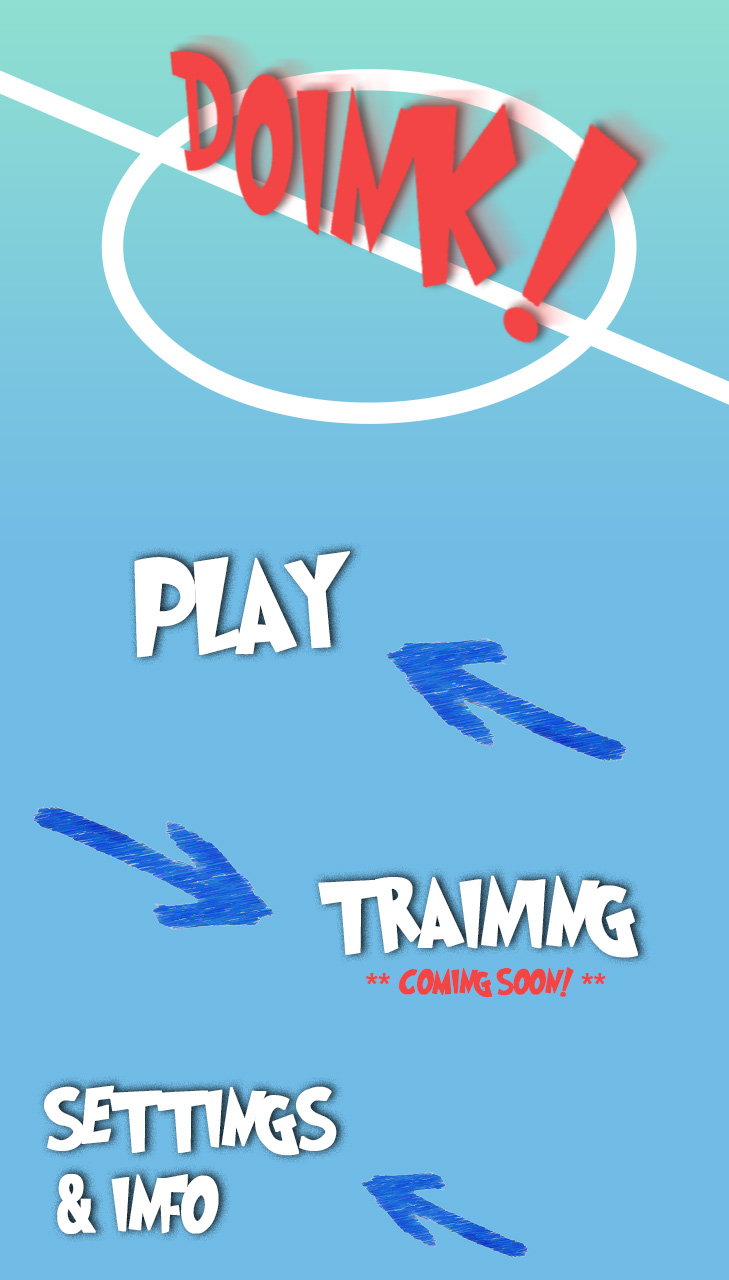
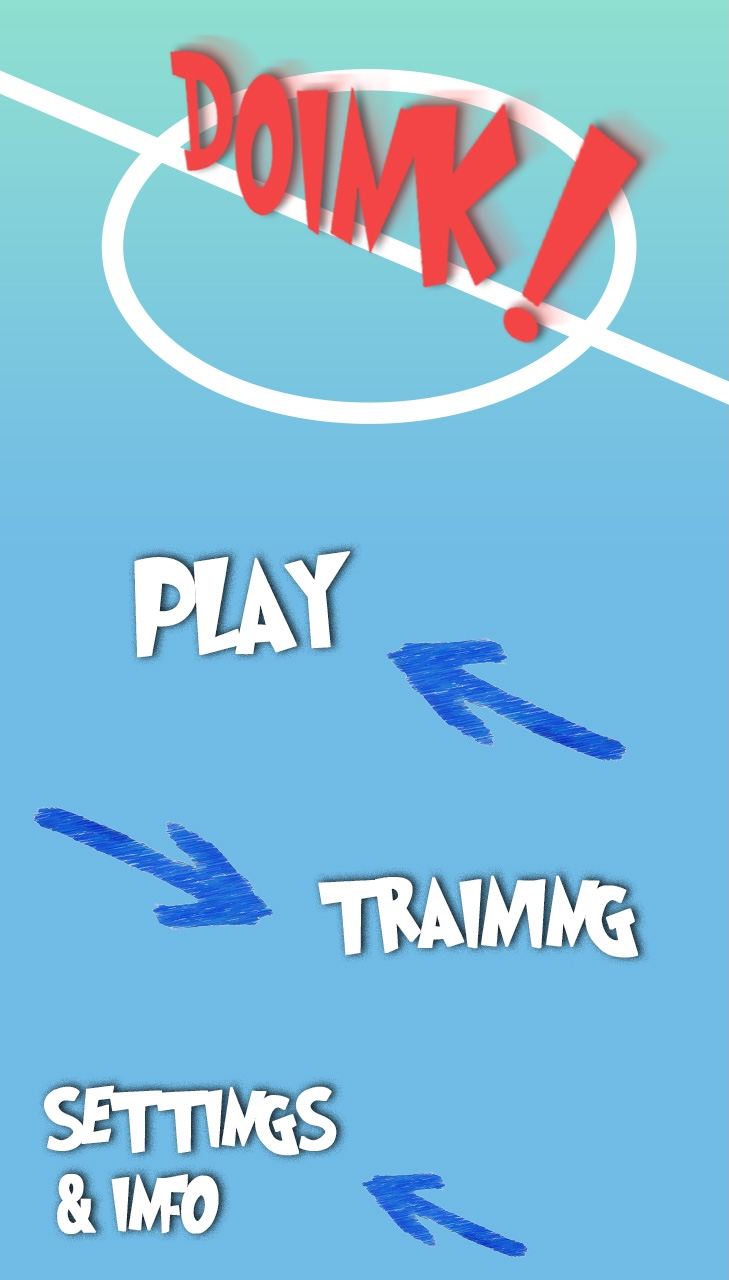
Enable training mode and fix the crash that kept it from working
The 2021 build shipped training behind a commented-out menu button and a
"coming soon" label on the menu artwork. The mode itself was written but,
being unreachable, had never run.

- Re-enabled the training button in menuView, declared at module scope so
  scene:destroy can see it, and updated the menu background.
- Targets called removeSelf() from inside their collision listener, which
  Box2D does not allow while it is still resolving the contact. Removal is
  now deferred by one frame. This would have failed on the first target
  hit, every time.
- targetCounter was never reset after a wave, so it stayed at three.
- The cheer now respects the SFX switch, like every other effect.

How the mode actually works, since it is not obvious: the ball is not
involved. In gameMode 2 it is created with no physics body and hidden, and
player 2 is hidden and stationary. The targets carry the ball's collision
filter, whose mask includes the players, so the player is what gets shot at
them. Three targets spawn and clearing them returns to the menu; the stage
counter is scaffolded but only one wave exists.

Also added CLAUDE.md with the project's working notes, and excluded it from
the app bundle alongside the other repository files.

Changed region(s): [[0.513, 0.75, 0.7846, 0.7812], [0.2414, 0.6875, 0.2716, 0.7188], [0.1811, 0.6562, 0.2112, 0.6875]]

diff --git a/CLAUDE.md b/CLAUDE.md
@@ -1,0 +1,93 @@
+# Doink! — working notes
+
+A Corona SDK / Solar2D game in Lua. Two players share one phone; first to five
+goals wins. Originally 2017, with a large round of work in 2021 that was merged
+into this repository in v6.0.0.
+
+## Running and checking
+
+There is no test suite, and the simulator cannot be driven headlessly. Anything
+automated has to be static:
+
+- **Syntax**: `luac -p <file>`. The binary is not on PATH — it ships with the
+  simulator at `/Applications/Corona-3731/Native/Corona/mac/bin/luac` (Lua 5.1.5).
+- **Scoping**: `luac -l -l -p <file>`, then grep for `GETGLOBAL` / `SETGLOBAL`.
+  **Two `-l` flags are required** — a single `-l` only dumps the top-level
+  function and silently skips nested ones, which is exactly where this codebase's
+  accidental-global bugs live.
+- **Asset and scene paths**: they are plain strings, so a wrong one fails at
+  runtime with no warning. Any sweep over them must cover **both quote styles** —
+  this file mixes `"..."` and `'...'`, and a double-quote-only pass has broken the
+  build here before.
+
+Real verification means opening the project in the Solar2D simulator and playing
+it. Static checks confirm that paths resolve; they say nothing about behaviour.
+
+## Layout
+
+`main.lua`, `config.lua`, `build.settings` and the `Icon*.png` set must stay at
+the repository root — the iOS bundle references the icons by bare filename.
+Everything else lives under `scenes/`, `lib/`, `assets/` and `docs/`.
+
+Scenes are loaded by module path: `composer.gotoScene("scenes.menuView")`. Asset
+paths in code resolve from the project root, not relative to the calling file,
+so moving a Lua file does not affect them.
+
+## Things that will bite you
+
+- **`display.newImageRect` returns `nil` for a missing file** rather than
+  raising. The failure surfaces one line later as "attempt to index a nil value".
+- **`removeSelf()` empties an object but leaves your variable pointing at it.**
+  The reference stays truthy while its methods are gone, so a second removal
+  fails. Always clear the slot afterwards.
+- **`isAwake = false` does not stop a body.** Box2D keeps the velocity and the
+  object resumes on the next contact. Use `setLinearVelocity(0, 0)` first — see
+  `stopBall()` in `gameView.lua`.
+- **Never destroy a physics body inside a collision listener.** Box2D is still
+  resolving the collision. Defer with `timer.performWithDelay(1, ...)`, as the
+  training targets do.
+- **`"touch"` fires for `began`, `moved` and `ended`.** Without a phase check a
+  single tap runs the handler two or three times. Every in-game button filters on
+  a phase; anything new must too.
+- **`scene:destroy` runs in module scope.** Widgets declared `local` inside
+  `scene:create` are invisible there and resolve to `nil` globals. Declare them at
+  the top of the file. Composer only calls `destroy` under memory pressure, so
+  this class of bug hides well.
+- **`composer.removeScene` takes the full module path** (`"scenes.gameView"`).
+  With the wrong name it fails silently, the scene stays cached, and `create`
+  never re-runs on re-entry — while `physics.stop()` has already destroyed every
+  body.
+
+## Audio
+
+Everything is MP3, not OGG: Corona only supports OGG on Android and this project
+also builds for iOS. Music uses `audio.loadStream` (the track is over four
+minutes; `loadSound` would hold it decoded in memory). Effects use `loadSound`
+and are gated on `global.sfxFlag`.
+
+Do not commit uncompressed audio. The 2018 Corona build server transcoded WAVs
+into the package automatically; current Solar2D ships them raw, which once put a
+44 MB file inside a 67 MB APK.
+
+## Builds
+
+Open the project in the Solar2D simulator and use **File → Build**. Android needs
+a JDK — the system `/usr/bin/javac` is only a stub.
+
+- Keep the package name `com.qwerteam.Doink`, or Android installs a second app
+  instead of updating.
+- `versionCode` must increase; `versionName` follows the release tag.
+- Solar2D emits an `.aab` next to the `.apk`. It is only for Play Store
+  submission and is not directly installable — releases here ship the APK.
+- `build.settings` has an `excludeFiles.all` entry keeping the design PDF, debug
+  notes, README and licence out of the package. Leave it in place.
+- Release flow: `gh release create vX.Y.Z <apk> --latest`, with the SHA-256 in the
+  notes so a sideloaded download can be verified.
+
+## Conventions
+
+Comments in the source are Italian, matching the original authors. Commit
+messages and the README are English. Explain *why* in comments rather than what —
+several fixes here look arbitrary without the reason.
+
+Verified claims only: if something has not been run in the simulator, say so.

diff --git a/README.md b/README.md
@@ -32,7 +32,7 @@ Each player has two power-up slots shown at mid-field on their own side: the one
 Both modes run inside [gameView.lua](scenes/gameView.lua), switched by `global.gameMode`:
 
 - **Match** (`gameMode = 1`) — the two-player game described above, with a pause overlay and an end-of-match popup.
-- **Training** (`gameMode = 2`) — solo practice: targets spawn on the pitch in waves of three, with a cheer when you hit one. **Implemented but currently unreachable** — the menu button that sets `gameMode = 2` is commented out in [menuView.lua](scenes/menuView.lua), so there is no way into it from the UI.
+- **Training** (`gameMode = 2`) — solo practice. Note that the ball is not involved: in training it is created with no physics body and hidden, and player 2 is hidden and stationary. The targets carry the ball's collision filter, whose mask includes the players, so you shoot *yourself* at them. Three targets spawn, each answering with a cheer; clearing all three returns to the menu. The staging is scaffolded (`trainingStage`) but only one wave is implemented.
 - **Settings** ([creditsView.lua](scenes/creditsView.lua)) — music and SFX toggles. The difficulty selector is commented out and `global.difficulty` is not read anywhere, so difficulty currently has no effect. Settings apply immediately but are not persisted.
 - **Customization** — selectable ball and pitch skins ([ballView.lua](scenes/ballView.lua), [fieldView.lua](scenes/fieldView.lua)), with assets in [balls/](assets/balls/) and [fields/](assets/fields/). The pitch choice also drives the UI theme: power-up icons and the menu, restart and back buttons come in neon, black and white variants selected from `global.fieldType`.
 
@@ -117,5 +117,6 @@ font and the GGData save helper — were unused and have been removed.
 ## Status
 
 Started in 2017, with a substantial round of work in 2021 that added training
-mode, the themed UI, the pause overlay and the five-goal win condition. Published
-as-is; not actively developed.
+mode, the themed UI, the pause overlay and the five-goal win condition. That
+build shipped with training disabled behind a "coming soon" label; it was
+finished and switched on in v6.1.0.
